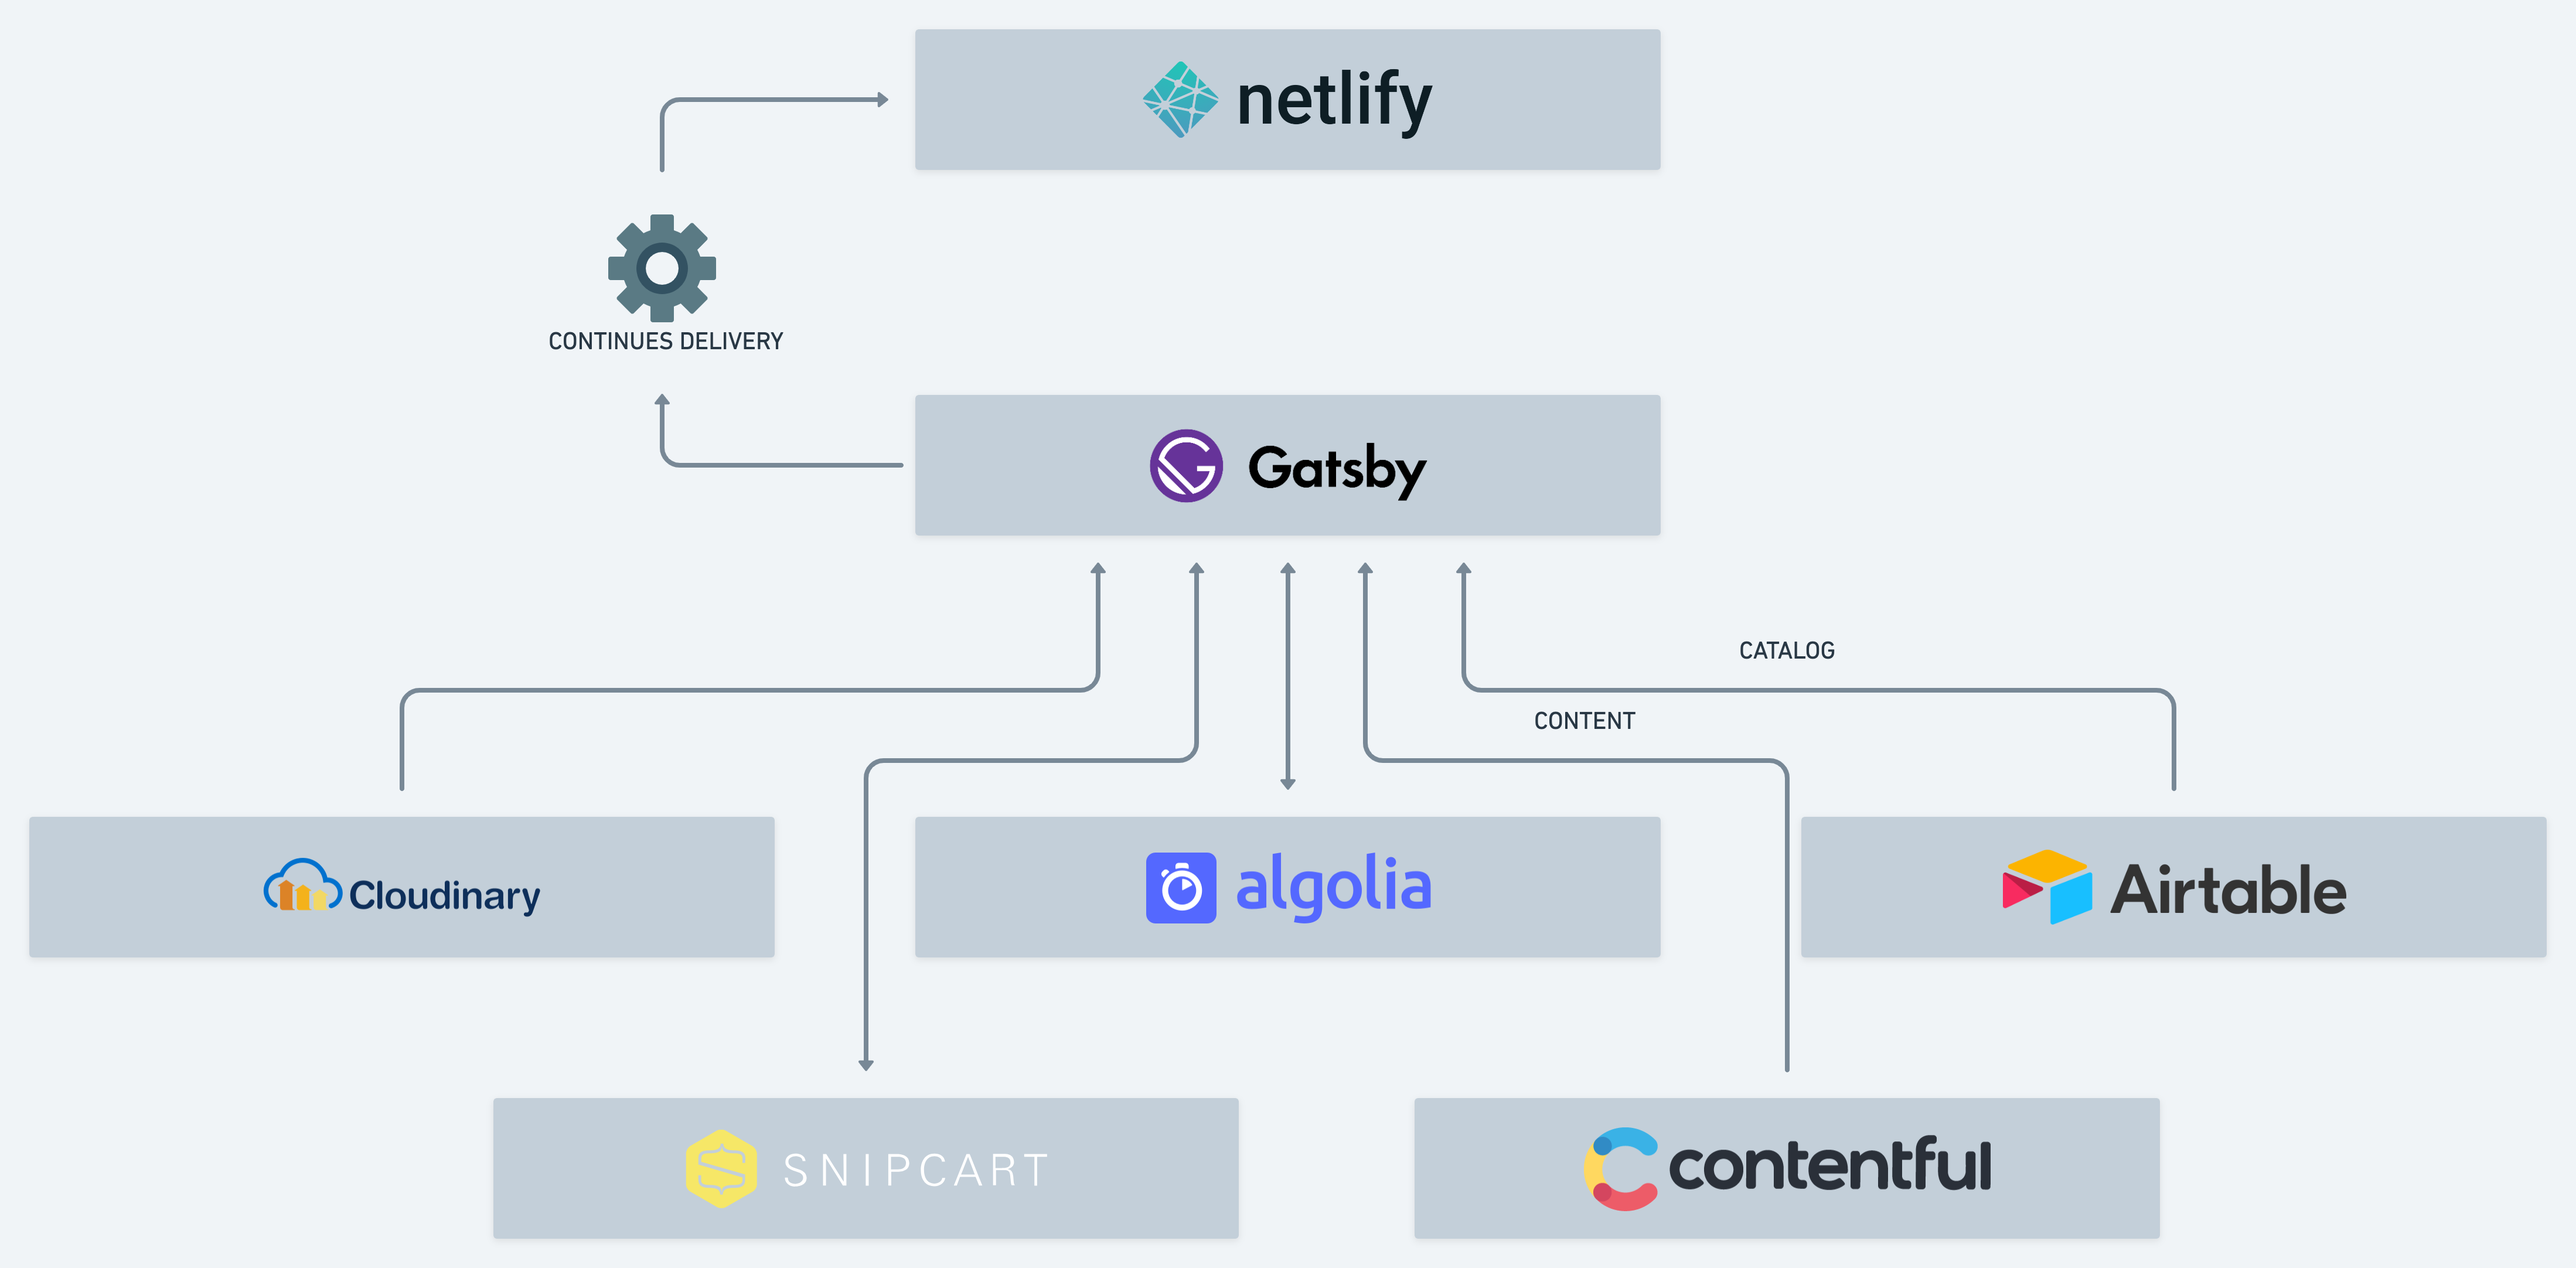
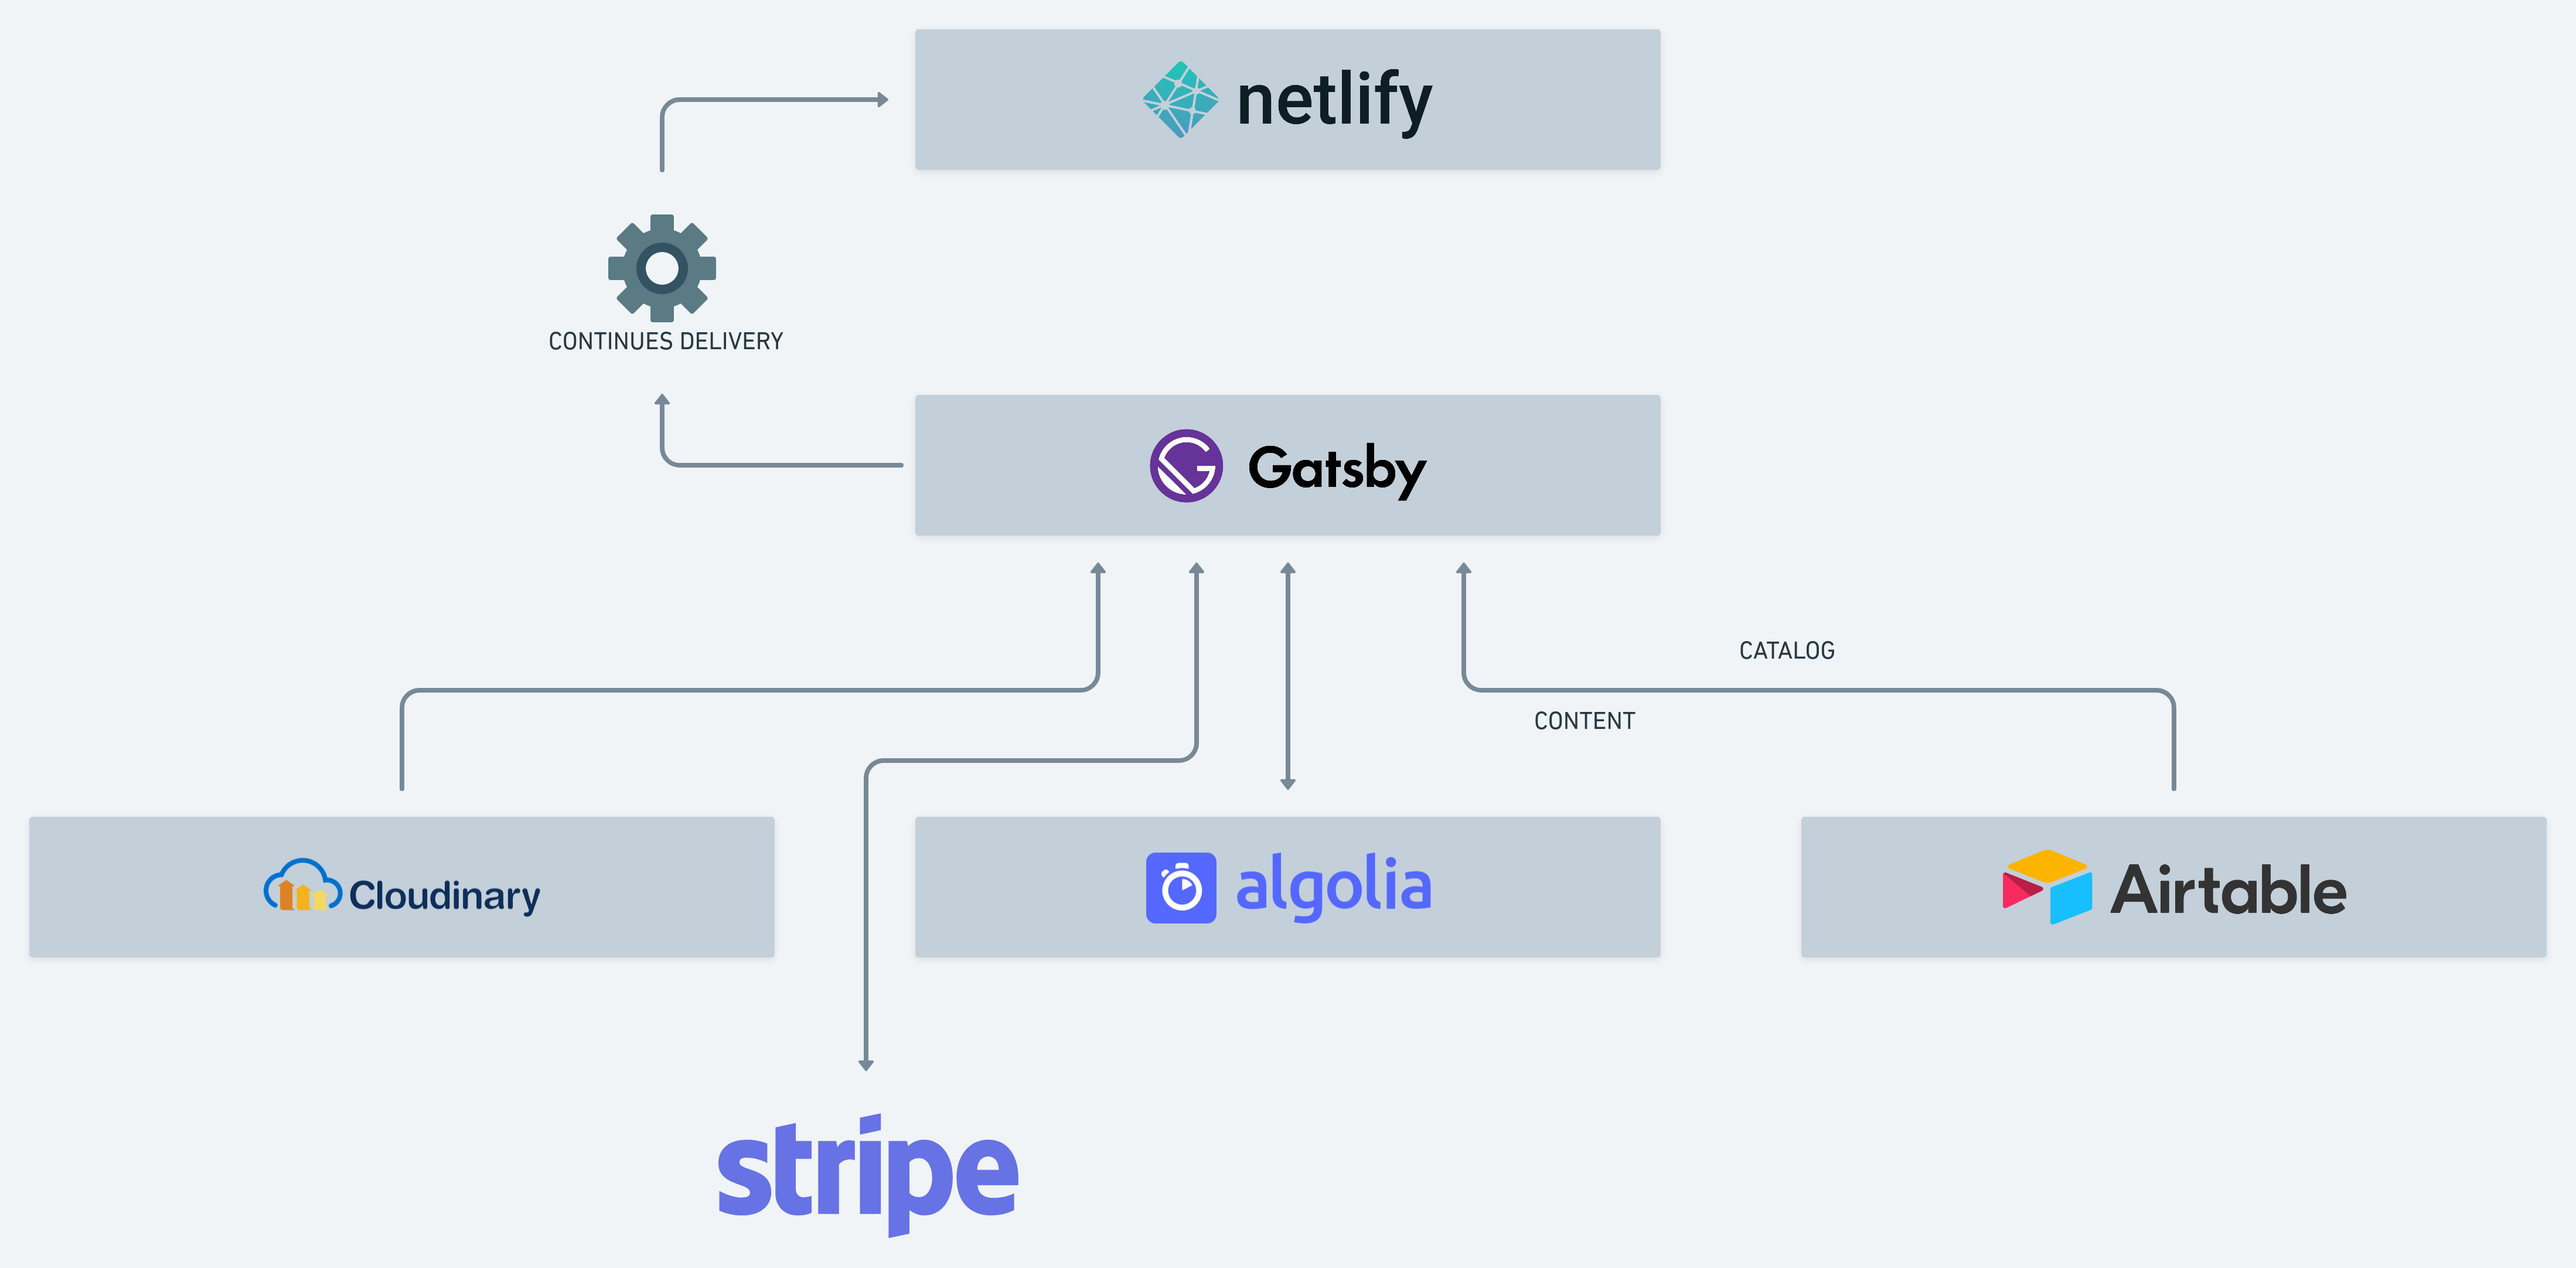
Replace Snipcart with Stripe in readme file

Changed region(s): [[0.5298, 0.8669, 0.8414, 0.9908], [0.187, 0.8669, 0.4986, 0.9908], [0.5298, 0.5883, 0.6856, 0.6192]]

diff --git a/README.md b/README.md
@@ -7,7 +7,7 @@ The project is open source and built on the JAM Stack using the following techno
 - [Netlify](https://www.netlify.com/) for hosting.
 - [Airtable](https://airtable.com/) for products.
 - [Cloudinary](https://cloudinary.com/) for images.
-- [Snipcart](https://snipcart.com/) for cart and checkout.
+- [Stripe](https://stripe.com/) for cart and checkout.
 - [Algolia](https://www.algolia.com/) for search.
 
 Our plan and performance can be found [here](https://www.notion.so/Myjam-Playbook-d0f0c790fd2649c589bb256be168c445).
